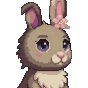
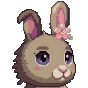
모모 초상화: 귀 끝을 칸 맨 위에 맞추고 가슴을 칸 아래로 내보낸다(틀 1.22, 1보다 큰 틀은 위에 맞춤). 귀가 잘리면 거슬린다는 사장 말대로(0110 고침)
Claude-Session: https://claude.ai/code/session_01VNXEyeHwdhsn4oiHYXtNpM

diff --git a/tools/art/ai_portraits.py b/tools/art/ai_portraits.py
@@ -9,7 +9,7 @@ PNG를 손으로 고치지 않고, 원본에 할 일을 모두 여기에 둔다(
   5. Naïl 털빛 1~3: 털 색만 portraits.FUR_VARIANTS 경사로 옮긴다(목도리·주둥이·앞발·발톱·눈은 그대로).
   6. 틀 맞추기(FIT): 캐릭터마다 그림 속 여백이 달라 칸에서 크기가 달라 보인다(포포는 높이 71%, Naïl은 94%).
      표정들을 합친 캐릭터 영역으로 정사각형을 잘라, 높이가 칸의 FIT 비율이 되고 가슴 아래는 칸 밖으로 조금 나가게 한다.
-     FIT가 1보다 크면 위가 칸 밖으로 나간다(모모의 긴 귀).
+     FIT가 1보다 크면 위(귀 끝)를 칸 맨 위에 맞추고 가슴 아래를 칸 밖으로 더 내보낸다(모모의 긴 귀).
 """
 import colorsys
 import os
@@ -26,13 +26,16 @@ W = H = 88
 CHARACTERS = {
     'nail': (0, ('normal', 'happy', 'worried', 'determined'), None, 0),
     'popo': (5, ('normal', 'happy'), 0.92, 16),
-    # 모모는 귀가 길어 높이로 맞추면 얼굴이 작아진다. 1보다 크게 잡아 곧은 귀 끝은 칸 위로 내보낸다(접힌 귀 끝·꽃은 남는다, 1.15면 접힌 끝이 잘림).
-    'momo': (12, ('normal', 'happy', 'worried'), 1.08, 16),
+    # 모모는 귀가 길어 높이로 맞추면 얼굴이 작아진다. 1보다 크게 잡아 귀 끝을 칸 맨 위에 두고 가슴을 칸 아래로 내보낸다
+    # (처음엔 귀 끝을 잘랐는데 거슬렸다, 사장). 1.22에서 얼굴이 Naïl·포포와 비슷하다.
+    'momo': (12, ('normal', 'happy', 'worried'), 1.22, 16),
 }
 # 크림색 가슴이 원본 아래 끝에 닿는 캐릭터: 배경 지우기를 아래 끝에서 시작하지 않는다(_character_mask).
 CHEST_AT_BOTTOM = {'momo'}
 # 틀 맞출 때 가슴 아래를 칸 밖으로 보내는 몫(잘린 가슴 = Naïl의 칸 밖으로 나간 앞발과 같은 틀).
 FIT_CUT = 0.02
+# 틀이 1보다 클 때 귀 끝 위에 남길 여백 몫.
+FIT_TOP = 0.01
 # 한 캐릭터 표정들을 맞출 팔레트: 눈(보랏빛) EYE_COLORS + 채도 높은 색(캐릭터 표의 vivid) + 나머지 REST_COLORS.
 # 32·48색 한 덩어리면 Naïl 눈의 보랏빛과 목도리 주황이 털 갈색에 묻혔다(눈은 점이 적어 팔레트를 나눌 때 사라진다).
 EYE_COLORS = 8
@@ -315,8 +318,13 @@ def _fit(images, masks, frac):
     xs = [x for m in masks for x in range(w) if any(m[y][x] for y in range(0, h, 4))]
     top, bottom, left, right = min(ys), max(ys) + 1, min(xs), max(xs) + 1
     side = int((bottom - top) / frac)
-    y1 = bottom - int(side * FIT_CUT)
-    y0 = y1 - side
+    if frac > 1:
+        # 키보다 칸이 작으면 위(귀 끝)를 칸 맨 위에 맞추고 남는 것은 가슴 아래로 내보낸다(귀가 잘리면 거슬린다, 사장).
+        y0 = top - int(side * FIT_TOP)
+        y1 = y0 + side
+    else:
+        y1 = bottom - int(side * FIT_CUT)
+        y0 = y1 - side
     x0 = (left + right) // 2 - side // 2
     out_i, out_m = [], []
     for img, m in zip(images, masks):

diff --git a/docs/phase-1-combat-prototype.md b/docs/phase-1-combat-prototype.md
@@ -124,7 +124,7 @@
 | 잠긴 문(0094·0096~0099) | `render.rs`(draw_root_gate·빛 패스), `sunny.rs`(FENCE_H·FENCE_V), `room.rs`(door_anim·tick_doors), `world.rs`(열릴 때 실 풀림) | 팩 나무 울타리 두 겹(가운데 칸만: 남북 39,2 · 동서 40,3, 가로대가 벽에서 벽까지, 팩이 없으면 물든 뿌리) + 가로대를 감는 보라 실, 0.35초에 솟아 닫히고 0.5초에 가라앉으며 실이 풀린다, 어둠 속에서도 실이 빛남 |
 | 어둠 지도·야광버섯·그림자(0095·0100) | `render.rs`(dark_rt·cut_material·light_sources·draw_cast_shadows·draw_mushrooms), `art.rs`(light), `biome.rs` | 빛 자리마다 어둠을 빼는 렌더 타깃, 버섯 빛 64px·세기 0.28(은은하게 넓게), 심층 버섯 14%·뿌리 지대 4%, 빛 반대쪽으로 눕는 그림자 |
 | 해·모닥불 그림자(0102~0106, 시험) | `render.rs`(draw_sun_shadows·shadow_dir·sun_shear·silhouette_material, draw_sorted의 sun), `sunny.rs`(stamp_sun_shadow), `terrain.rs`(Baker::fires), `tuning.rs`(SUN_SHADOW_*·FIRE_SHADOW_*·DECOR_LIFT_*) | 서 있는 것의 모양을 발 줄 축으로 눕혀 렌더 타깃에 모아 한 번에 얹는다. 밝은 곳은 해(오른쪽 아래), 모닥불 곁은 불 바깥쪽(150px, 멀수록 길게, 불이 아래면 더 길게 0104, 어두운 곳은 바깥으로 옅게). 모닥불 돌은 돌만 키운 모양(뒤쪽은 짧게, 0105). 그림자 패스는 몸만(빛·표시·반투명·바닥 것 제외, 밝은 곳은 타원 그림자 끔, 0106). 구운 꽃·조약돌·풀포기는 높이 비율만큼 짧게 |
-| Naïl·포포·돌아온 모모 초상화 나노바나나(0107~0110) | `tools/art/sources/ai/nail_*.png`, `tools/art/ai_portraits.py`, `tools/art/portraits.py`(sheet), `docs/art/nano-banana-prompts.md` | 표정 넷 원본 → 로고 지우기·결의 눈 색·배경 투명·88×88·한 팔레트(눈 8색 따로)·털빛 셋(주둥이·발톱은 자리로 지킴). 포포: 틀 맞추기(높이 92%)·채도 높은 색 따로. 모모: 검은 선 → 자두빛, 틀 1.08(곧은 귀 끝만 칸 위로), 가슴이 지워지지 않게 아래 끝 번지기 끔. 다른 캐릭터는 다음 차례 |
+| Naïl·포포·돌아온 모모 초상화 나노바나나(0107~0110) | `tools/art/sources/ai/nail_*.png`, `tools/art/ai_portraits.py`, `tools/art/portraits.py`(sheet), `docs/art/nano-banana-prompts.md` | 표정 넷 원본 → 로고 지우기·결의 눈 색·배경 투명·88×88·한 팔레트(눈 8색 따로)·털빛 셋(주둥이·발톱은 자리로 지킴). 포포: 틀 맞추기(높이 92%)·채도 높은 색 따로. 모모: 검은 선 → 자두빛, 틀 1.22(귀 끝을 칸 맨 위에, 가슴을 칸 아래로), 가슴이 지워지지 않게 아래 끝 번지기 끔. 다른 캐릭터는 다음 차례 |
 | 웨이브 | `world.rs`, `scenario.rs` | 지금은 개발 시나리오(아레나·웨이브 3부터)에서만. 적을 다 잡으면 1.2초 뒤 다음 웨이브(1C+1S → 2C+1S → 2C+2S → 3C+2S). 명세엔 없지만 5분 플레이 판정을 위해 넣음 |
 
 확인한 것: 데스크톱(Xvfb) 실행 캡처로 렌더 방향·공격 반원·굴파기·히트박스 표시, 헤드리스 Chromium으로 웹 빌드 로드·입력·콘솔(mismatch 없음). 확인 못 한 것: 실제 손맛(판정 1~4), 실기 게임패드, 소리의 실제 느낌(컨테이너에 오디오 장치 없음).

diff --git a/docs/decisions/0110-momo-portraits-plum-lines-and-tall-ears.md b/docs/decisions/0110-momo-portraits-plum-lines-and-tall-ears.md
@@ -6,7 +6,8 @@
 ## 결정(`tools/art/ai_portraits.py`, `tools/art/sources/ai/momo_{normal,happy,worried}.png`)
 - 칸 12~14(보통·기쁨·걱정). 원본 1024×1024. 세 원본의 캐릭터 영역이 1px 안에서 같아 따로 맞추지 않는다.
 - **선 색**: 모모 원본만 바깥선이 거의 검정(8,8,16)이었다. Naïl·포포의 선은 자두빛(37,18,34 ~ 56,40,48)이라 나란히 두면 모모만 딱딱해 보인다. 밝기 56 아래 점을 자두빛 경사로 옮긴다(`_plum_lines`). 눈 상자(`MOMO_EYES`) 안의 눈동자·속눈썹은 그대로.
-- **긴 귀 틀**: 귀까지 넣어 높이 92%로 맞추면 얼굴이 Naïl·포포보다 작다. 틀 비율을 1.08로 해서 곧은 귀 끝만 칸 위로 내보낸다. 1.15면 접힌 귀 끝이 잘려 모모의 표시가 사라진다. 예전 직접 그린 초상화도 귀가 칸 위에 닿았다.
+- **긴 귀 틀**: 귀까지 넣어 높이 92%로 맞추면 얼굴이 Naïl·포포보다 작다. 틀 비율을 1.22로 하고, 1보다 큰 틀은 **귀 끝을 칸 맨 위(여백 1%)에 맞추고 가슴을 칸 아래로 내보낸다**(`_fit`, `FIT_TOP`). 1.22에서 얼굴이 Naïl·포포와 비슷하고 크림색 가슴은 위쪽만 보인다.
+  - 처음엔 1.08로 곧은 귀 끝을 칸 위로 잘랐다. 사장: 귀가 잘리면 거슬리고, 가슴을 자르는 편이 낫다. 모모의 표시는 귀(접힌 끝)·꽃·얼굴이고 가슴은 아니다.
 - 눈은 연보라 홍채 + 검은 눈동자다. 0049의 "검고 맑은 눈"은 물든 모습의 초록 빛과 가르는 약속이고, 예전 초상화도 짙은 보라 홍채(104,92,150)였다. 초록이 아니고 빛나지 않으니 약속은 지킨다. 그래서 색을 바꾸지 않았다.
 
 ## 함정
